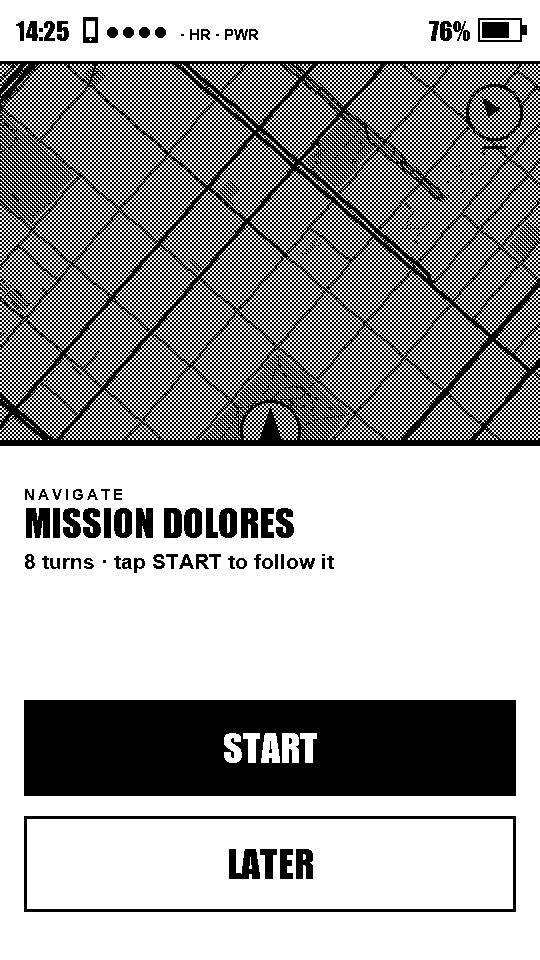
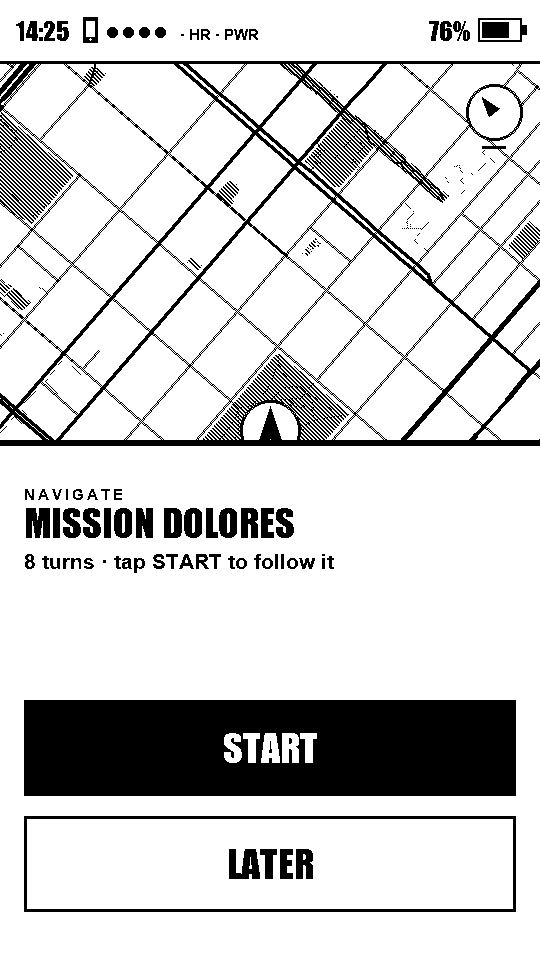
Stop scrimming the route under the NAVIGATE prompt
The sheet tones what is behind it to push it back and say the modal has the
input. That is right over live data — the power sheet keeps it — but under the
NAVIGATE prompt what is behind IS the thing being decided about, and a 50%
checker over fine map lines is exactly what stops a rider recognising the route
they are being asked to accept.

sheetShell() takes a `scrim` flag; the nav prompt passes false. Everything else
about the sheet is unchanged, and its 6 px top rule still separates it from the
map without the tone.

Claude-Session: https://claude.ai/code/session_01GwYZjHmfM1HsbvSAjJrw4U

Changed region(s): [[0.0, 0.0625, 1.0, 0.4688]]

diff --git a/src/ui_render.cpp b/src/ui_render.cpp
@@ -1517,14 +1517,20 @@ const EpdRect kPowerCancel = {24, 816, 492, 96};
 // Draws the shared modal shell: scrim over the live screen, bottom panel, rule.
 // The end-of-ride sheet, the power dialog and the navigation prompt are ONE
 // component with different words in it.
-static void sheetShell(uint8_t* fb) {
+// `scrim` tones what is behind the sheet, to push it back and say the modal has
+// the input. Pass false when what is behind IS the thing being decided about —
+// the route preview under the NAVIGATE prompt, where a 50% checker over fine map
+// lines is exactly what stops the rider recognising the route they are being
+// asked to accept.
+static void sheetShell(uint8_t* fb, bool scrim = true) {
     const int W = epd_rotated_display_width();
     const int H = epd_rotated_display_height();
     const int y = H - 520;
     // Scrim the BODY only. Toning the status band as well made the clock and
     // battery unreadable behind the checker — that row is chrome the rider
     // still needs while a modal is up.
-    fillTone({0, ui::STATUS_H, W, y - ui::STATUS_H}, ui::TONE_50, fb);
+    if (scrim)
+        fillTone({0, ui::STATUS_H, W, y - ui::STATUS_H}, ui::TONE_50, fb);
     epd_fill_rect({0, y, W, H - y}, ui::PAPER, fb);
     epd_fill_rect({0, y, W, 6}, ui::INK, fb);
 }
@@ -1724,7 +1730,7 @@ void ui_render_nav_prompt(const char* routeName, int turns, uint8_t* fb) {
     char sub[64];
     snprintf(sub, sizeof(sub), "%d turn%s · tap START to follow it", turns,
              turns == 1 ? "" : "s");
-    sheetShell(fb);
+    sheetShell(fb, /*scrim=*/false);   // the route preview must stay readable
     // The route name is the hero line here, at impact_96 like the summary's
     // distance — it was previously set at body size and unreadable at a glance.
     sheetHead("NAVIGATE", routeName, sub, fb);
